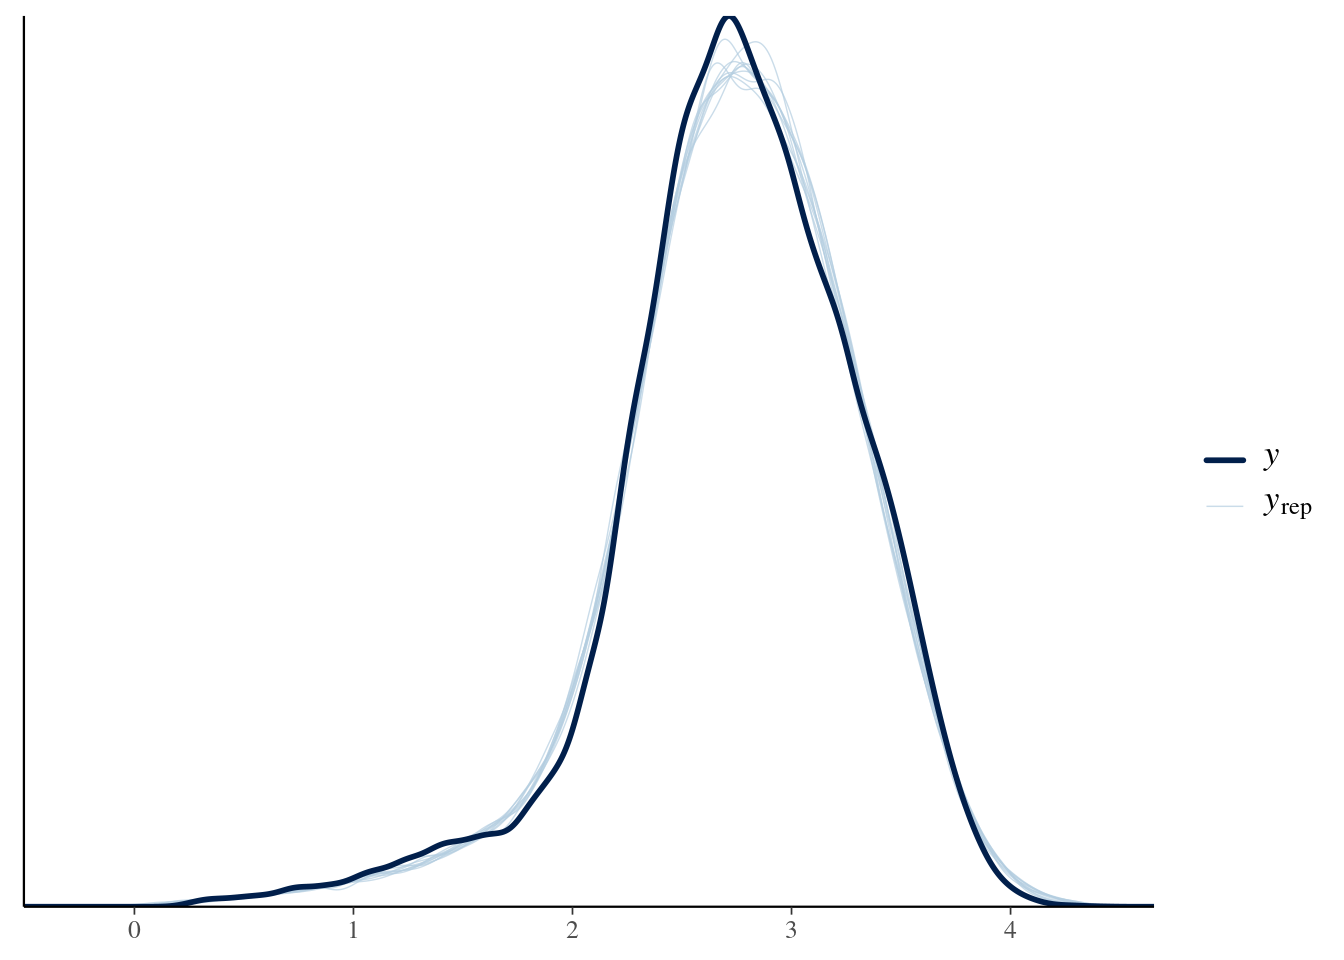
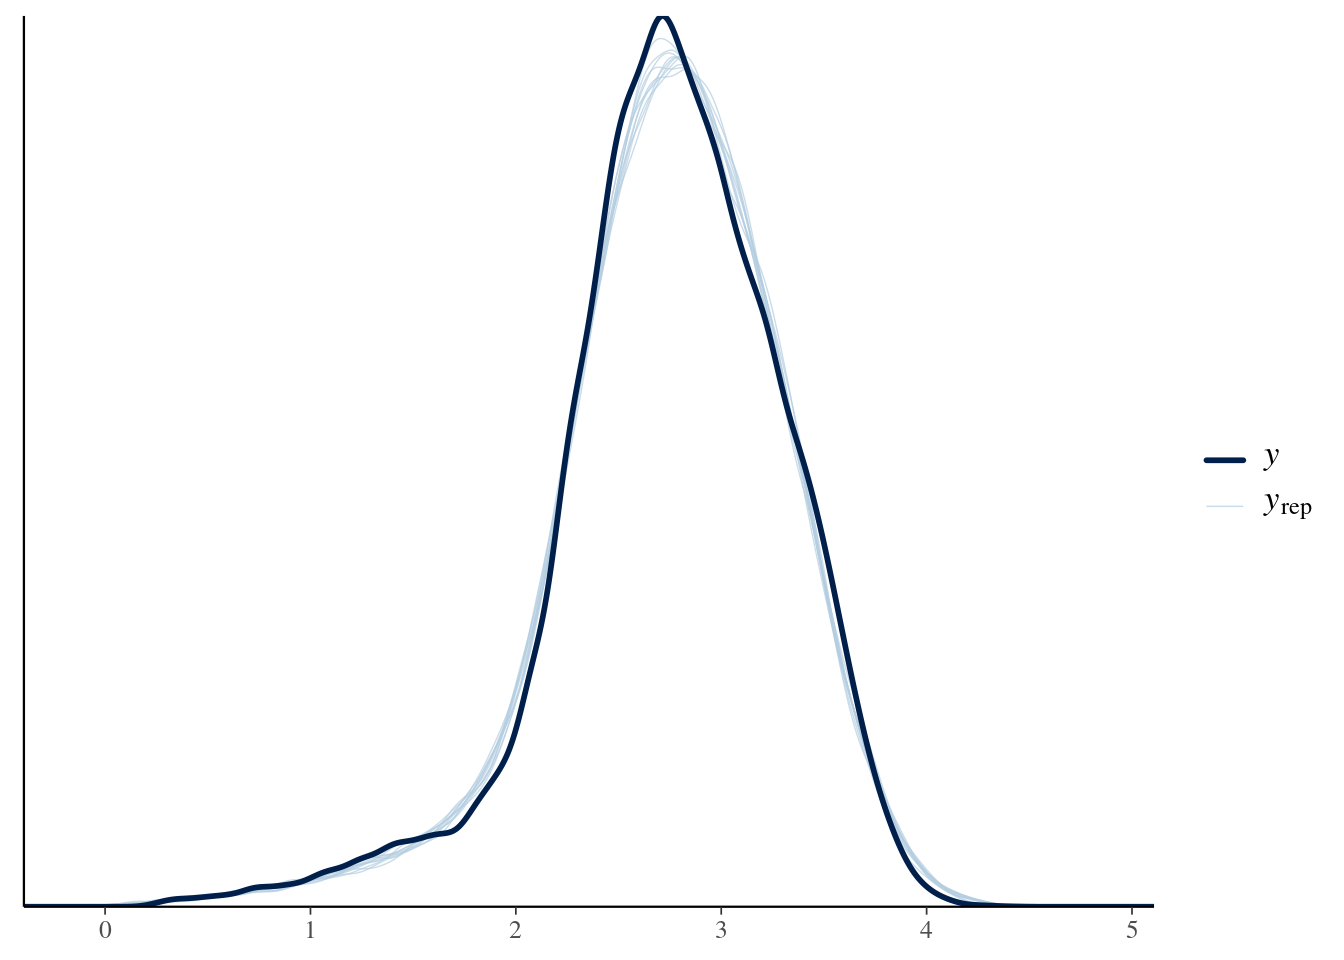
troll_eval 0.1.0.9020: figs numbers

Changed region(s): [[0.0938, 0.0, 0.8125, 0.9688]]

diff --git a/docs/33_evaluation.html b/docs/33_evaluation.html
@@ -930,7 +930,7 @@ div.csl-indent {
 <span id="cb14-50"><a href="#cb14-50" aria-hidden="true" tabindex="-1"></a>  <span class="fu">scale_color_manual</span>(<span class="st">""</span>, <span class="at">values =</span> <span class="fu">as.vector</span>(cols_laid[<span class="fu">c</span>(<span class="st">"mature"</span>, <span class="st">"old"</span>, <span class="st">"young"</span>)])) <span class="sc">+</span></span>
 <span id="cb14-51"><a href="#cb14-51" aria-hidden="true" tabindex="-1"></a>  <span class="fu">scale_fill_manual</span>(<span class="st">""</span>, <span class="at">values =</span> <span class="fu">as.vector</span>(cols_laid[<span class="fu">c</span>(<span class="st">"mature"</span>, <span class="st">"old"</span>, <span class="st">"young"</span>)])) <span class="sc">+</span></span>
 <span id="cb14-52"><a href="#cb14-52" aria-hidden="true" tabindex="-1"></a>  <span class="fu">theme</span>(<span class="at">legend.position =</span> <span class="st">"bottom"</span>)</span>
-<span id="cb14-53"><a href="#cb14-53" aria-hidden="true" tabindex="-1"></a><span class="fu">ggsave</span>(<span class="st">"figures/f06.png"</span>, g, <span class="at">dpi =</span> <span class="dv">300</span>, <span class="at">width =</span> <span class="dv">8</span>, <span class="at">height =</span> <span class="dv">5</span>, <span class="at">bg =</span> <span class="st">"white"</span>)</span>
+<span id="cb14-53"><a href="#cb14-53" aria-hidden="true" tabindex="-1"></a><span class="fu">ggsave</span>(<span class="st">"figures/fs08.png"</span>, g, <span class="at">dpi =</span> <span class="dv">300</span>, <span class="at">width =</span> <span class="dv">8</span>, <span class="at">height =</span> <span class="dv">5</span>, <span class="at">bg =</span> <span class="st">"white"</span>)</span>
 <span id="cb14-54"><a href="#cb14-54" aria-hidden="true" tabindex="-1"></a>g</span></code><button title="Copy to Clipboard" class="code-copy-button"><i class="bi"></i></button></pre></div>
 </details>
 <div class="cell-output-display">
@@ -997,7 +997,7 @@ div.csl-indent {
 <span id="cb15-50"><a href="#cb15-50" aria-hidden="true" tabindex="-1"></a>                     <span class="at">labels =</span> <span class="fu">c</span>(<span class="st">"J"</span>, <span class="st">"F"</span>, <span class="st">"M"</span>, <span class="st">"A"</span>, <span class="st">"M"</span>, <span class="st">"J"</span>, <span class="st">"J"</span>, <span class="st">"A"</span>, <span class="st">"S"</span>, <span class="st">"O"</span>, <span class="st">"N"</span>, <span class="st">"D"</span>)) <span class="sc">+</span> </span>
 <span id="cb15-51"><a href="#cb15-51" aria-hidden="true" tabindex="-1"></a>  <span class="fu">ylab</span>(<span class="fu">expression</span>(<span class="st">"Normalised Leaf Area Index"</span>)) <span class="sc">+</span> <span class="fu">xlab</span>(<span class="st">""</span>) <span class="sc">+</span></span>
 <span id="cb15-52"><a href="#cb15-52" aria-hidden="true" tabindex="-1"></a>  <span class="fu">theme</span>(<span class="at">legend.position =</span> <span class="st">"bottom"</span>)</span>
-<span id="cb15-53"><a href="#cb15-53" aria-hidden="true" tabindex="-1"></a><span class="fu">ggsave</span>(<span class="st">"figures/fs08.png"</span>, g, <span class="at">dpi =</span> <span class="dv">300</span>, <span class="at">width =</span> <span class="dv">8</span>, <span class="at">height =</span> <span class="dv">5</span>, <span class="at">bg =</span> <span class="st">"white"</span>)</span>
+<span id="cb15-53"><a href="#cb15-53" aria-hidden="true" tabindex="-1"></a><span class="fu">ggsave</span>(<span class="st">"figures/f06.png"</span>, g, <span class="at">dpi =</span> <span class="dv">300</span>, <span class="at">width =</span> <span class="dv">8</span>, <span class="at">height =</span> <span class="dv">5</span>, <span class="at">bg =</span> <span class="st">"white"</span>)</span>
 <span id="cb15-54"><a href="#cb15-54" aria-hidden="true" tabindex="-1"></a>g</span></code><button title="Copy to Clipboard" class="code-copy-button"><i class="bi"></i></button></pre></div>
 </details>
 <div class="cell-output-display">

diff --git a/docs/index.html b/docs/index.html
@@ -7,7 +7,7 @@
 <meta name="viewport" content="width=device-width, initial-scale=1.0, user-scalable=yes">
 
 <meta name="author" content="Sylvain Schmitt">
-<meta name="dcterms.date" content="2024-05-03">
+<meta name="dcterms.date" content="2024-05-06">
 
 <title>TROLL V4 Evaluation</title>
 <style>
@@ -296,7 +296,7 @@ pre > code.sourceCode > span > a:first-child::before { text-decoration: underlin
     <div>
     <div class="quarto-title-meta-heading">Published</div>
     <div class="quarto-title-meta-contents">
-      <p class="date">May 3, 2024</p>
+      <p class="date">May 6, 2024</p>
     </div>
   </div>
   
@@ -326,8 +326,8 @@ pre > code.sourceCode > span > a:first-child::before { text-decoration: underlin
 <span id="cb1-9"><a href="#cb1-9" aria-hidden="true" tabindex="-1"></a>  <span class="fu">addMarkers</span>(<span class="at">label =</span> <span class="sc">~</span>site, <span class="at">labelOptions =</span> <span class="fu">labelOptions</span>(<span class="at">noHide =</span> T))</span></code><button title="Copy to Clipboard" class="code-copy-button"><i class="bi"></i></button></pre></div>
 </details>
 <div class="cell-output-display">
-<div class="leaflet html-widget html-fill-item" id="htmlwidget-e92bb59a6d614cb392f5" style="width:100%;height:464px;"></div>
-<script type="application/json" data-for="htmlwidget-e92bb59a6d614cb392f5">{"x":{"options":{"crs":{"crsClass":"L.CRS.EPSG3857","code":null,"proj4def":null,"projectedBounds":null,"options":{}}},"calls":[{"method":"addTiles","args":["https://{s}.tile.openstreetmap.org/{z}/{x}/{y}.png",null,null,{"minZoom":0,"maxZoom":18,"tileSize":256,"subdomains":"abc","errorTileUrl":"","tms":false,"noWrap":false,"zoomOffset":0,"zoomReverse":false,"opacity":1,"zIndex":1,"detectRetina":false,"attribution":"&copy; <a href=\"https://openstreetmap.org/copyright/\">OpenStreetMap<\/a>,  <a href=\"https://opendatacommons.org/licenses/odbl/\">ODbL<\/a>"}]},{"method":"addMarkers","args":[[5.27877,-2.85667],[-52.92486,-54.95889],null,null,null,{"interactive":true,"draggable":false,"keyboard":true,"title":"","alt":"","zIndexOffset":0,"opacity":1,"riseOnHover":false,"riseOffset":250},null,null,null,null,["Paracou","Tapajos"],{"interactive":false,"permanent":true,"direction":"auto","opacity":1,"offset":[0,0],"textsize":"10px","textOnly":false,"className":"","sticky":true},null]}],"limits":{"lat":[-2.85667,5.27877],"lng":[-54.95889,-52.92486]}},"evals":[],"jsHooks":[]}</script>
+<div class="leaflet html-widget html-fill-item" id="htmlwidget-9d1d88921c070c8bbf32" style="width:100%;height:464px;"></div>
+<script type="application/json" data-for="htmlwidget-9d1d88921c070c8bbf32">{"x":{"options":{"crs":{"crsClass":"L.CRS.EPSG3857","code":null,"proj4def":null,"projectedBounds":null,"options":{}}},"calls":[{"method":"addTiles","args":["https://{s}.tile.openstreetmap.org/{z}/{x}/{y}.png",null,null,{"minZoom":0,"maxZoom":18,"tileSize":256,"subdomains":"abc","errorTileUrl":"","tms":false,"noWrap":false,"zoomOffset":0,"zoomReverse":false,"opacity":1,"zIndex":1,"detectRetina":false,"attribution":"&copy; <a href=\"https://openstreetmap.org/copyright/\">OpenStreetMap<\/a>,  <a href=\"https://opendatacommons.org/licenses/odbl/\">ODbL<\/a>"}]},{"method":"addMarkers","args":[[5.27877,-2.85667],[-52.92486,-54.95889],null,null,null,{"interactive":true,"draggable":false,"keyboard":true,"title":"","alt":"","zIndexOffset":0,"opacity":1,"riseOnHover":false,"riseOffset":250},null,null,null,null,["Paracou","Tapajos"],{"interactive":false,"permanent":true,"direction":"auto","opacity":1,"offset":[0,0],"textsize":"10px","textOnly":false,"className":"","sticky":true},null]}],"limits":{"lat":[-2.85667,5.27877],"lng":[-54.95889,-52.92486]}},"evals":[],"jsHooks":[]}</script>
 </div>
 </div>
 </section>

diff --git a/NEWS.md b/NEWS.md
@@ -1,3 +1,4 @@
+-   troll_eval 0.1.0.9020: figs numbers
 -   troll_eval 0.1.0.9019: adding etp and swc for all depth in evaluation and companion figures
 -   troll_eval 0.1.0.9018: LAI per age and all figs update
 -   troll_eval 0.1.0.9017: all determinants of GPP and ET figs
